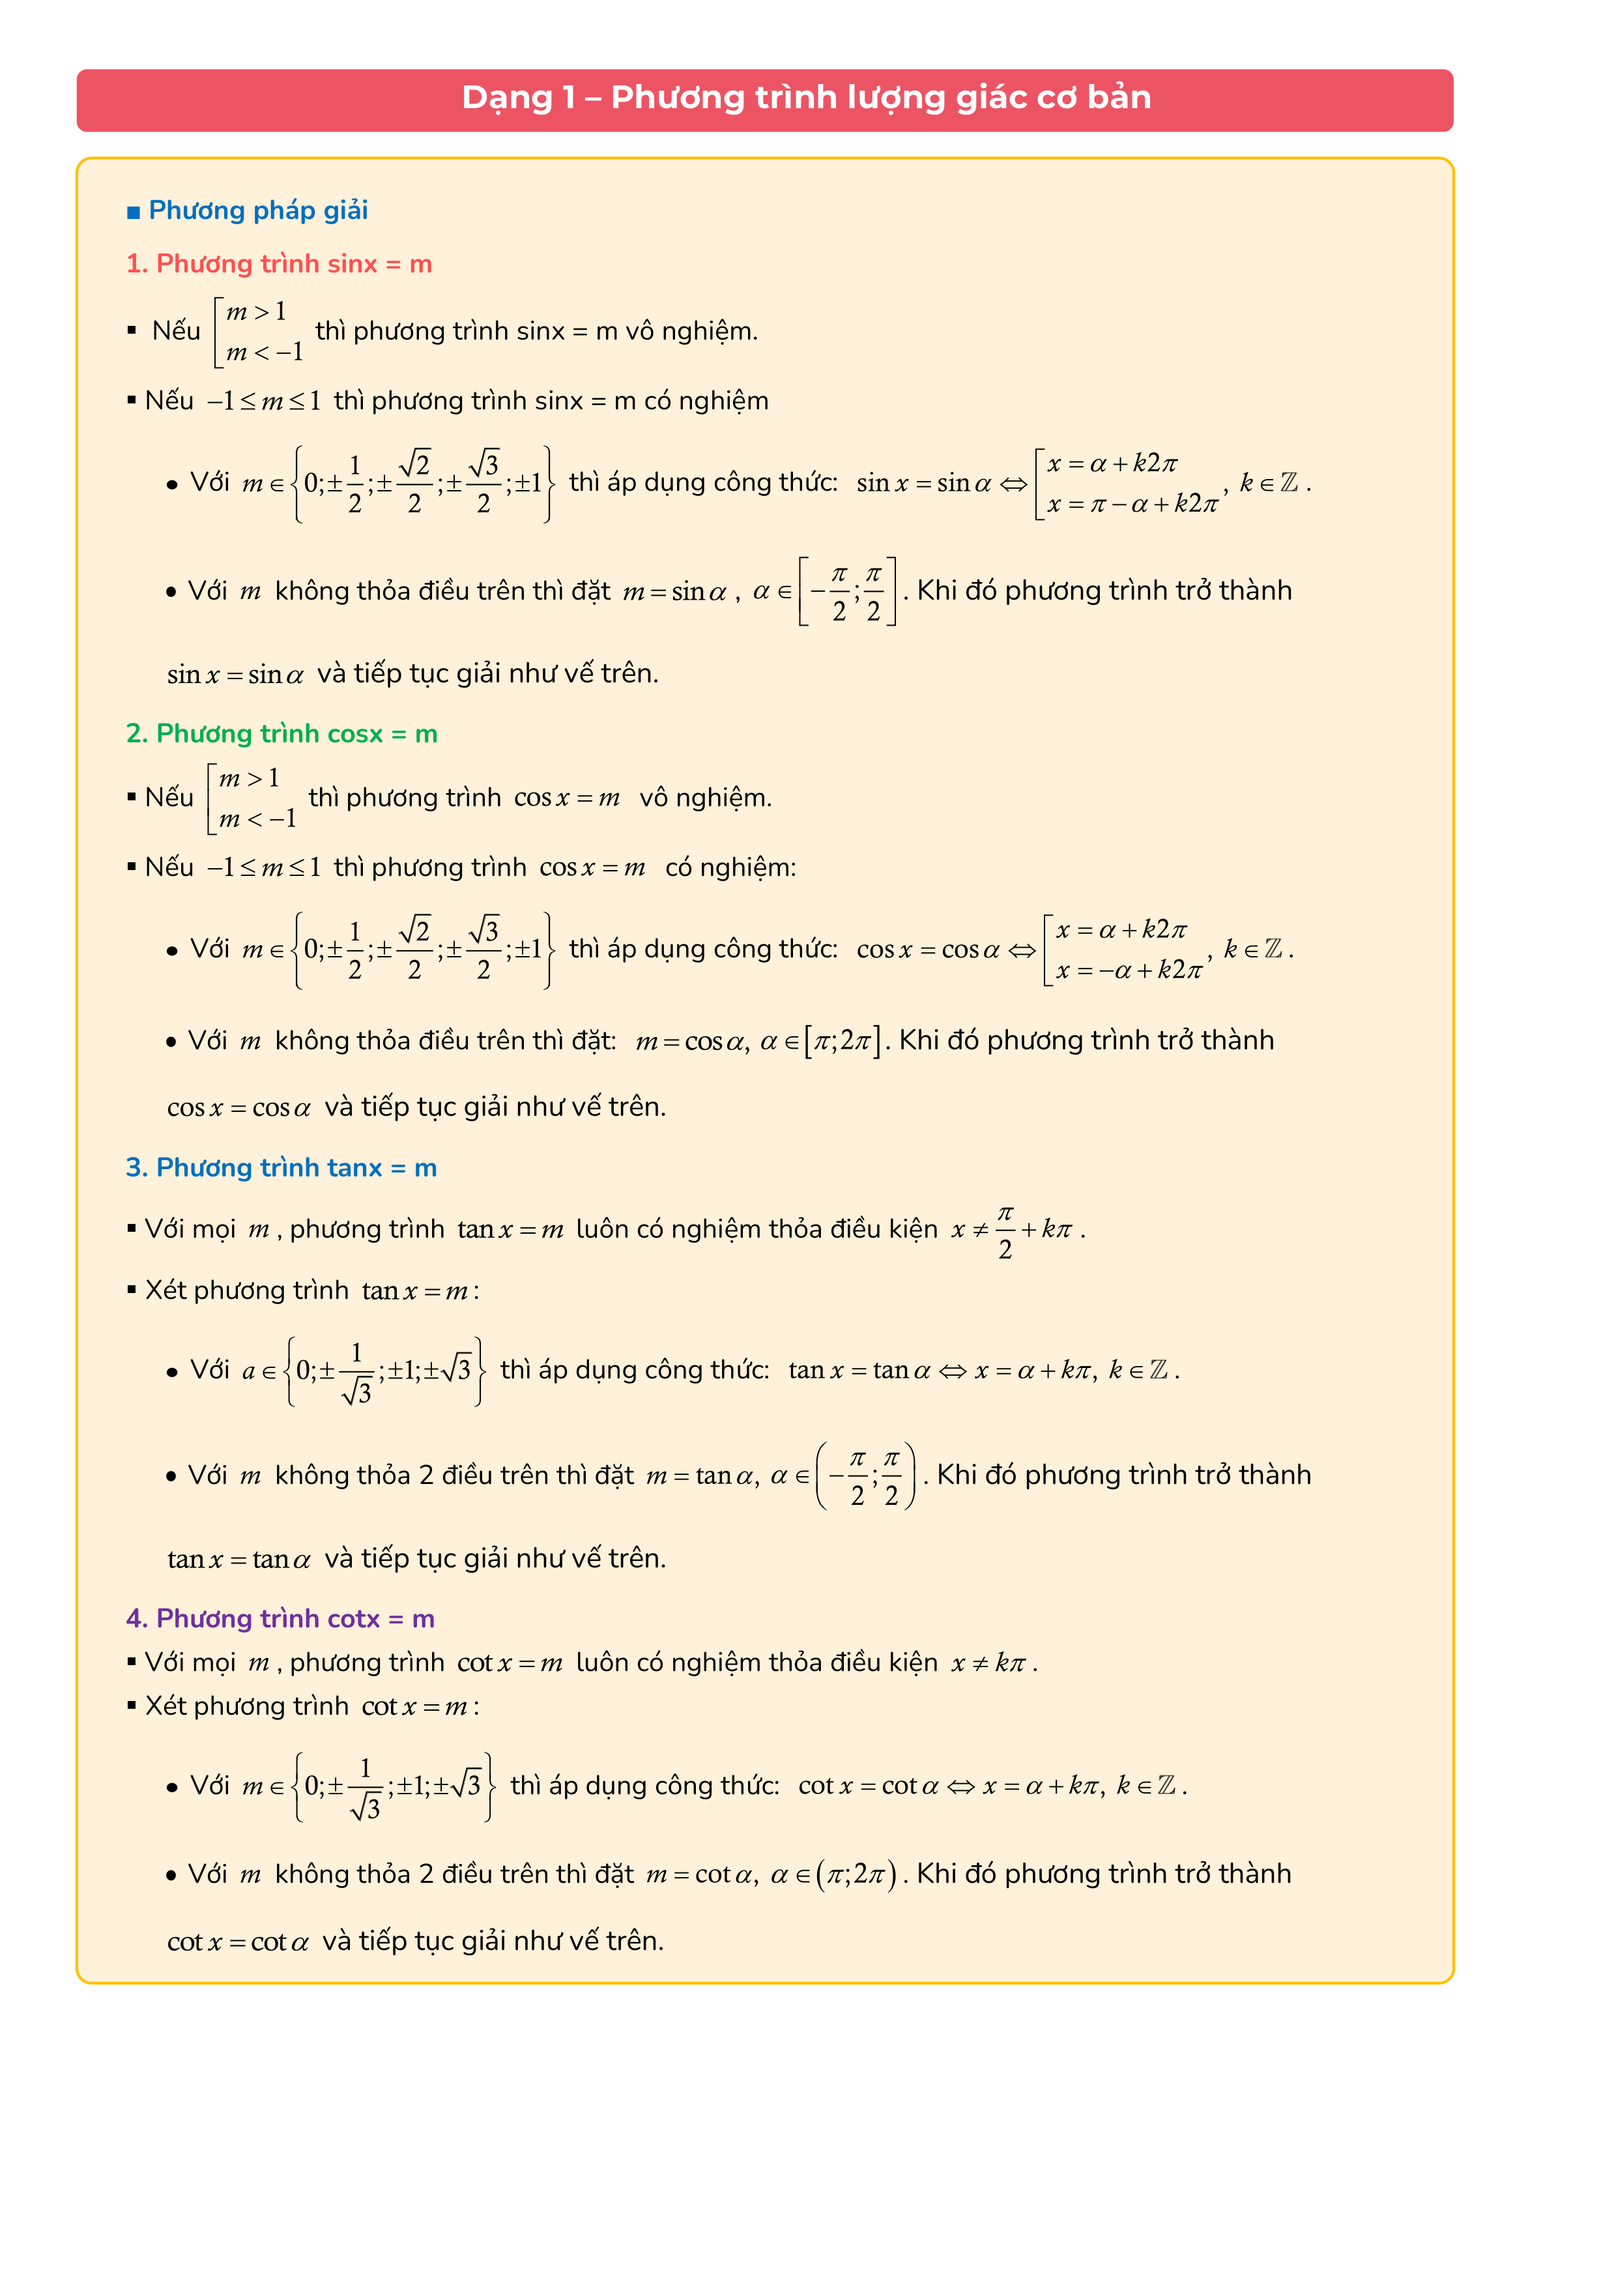
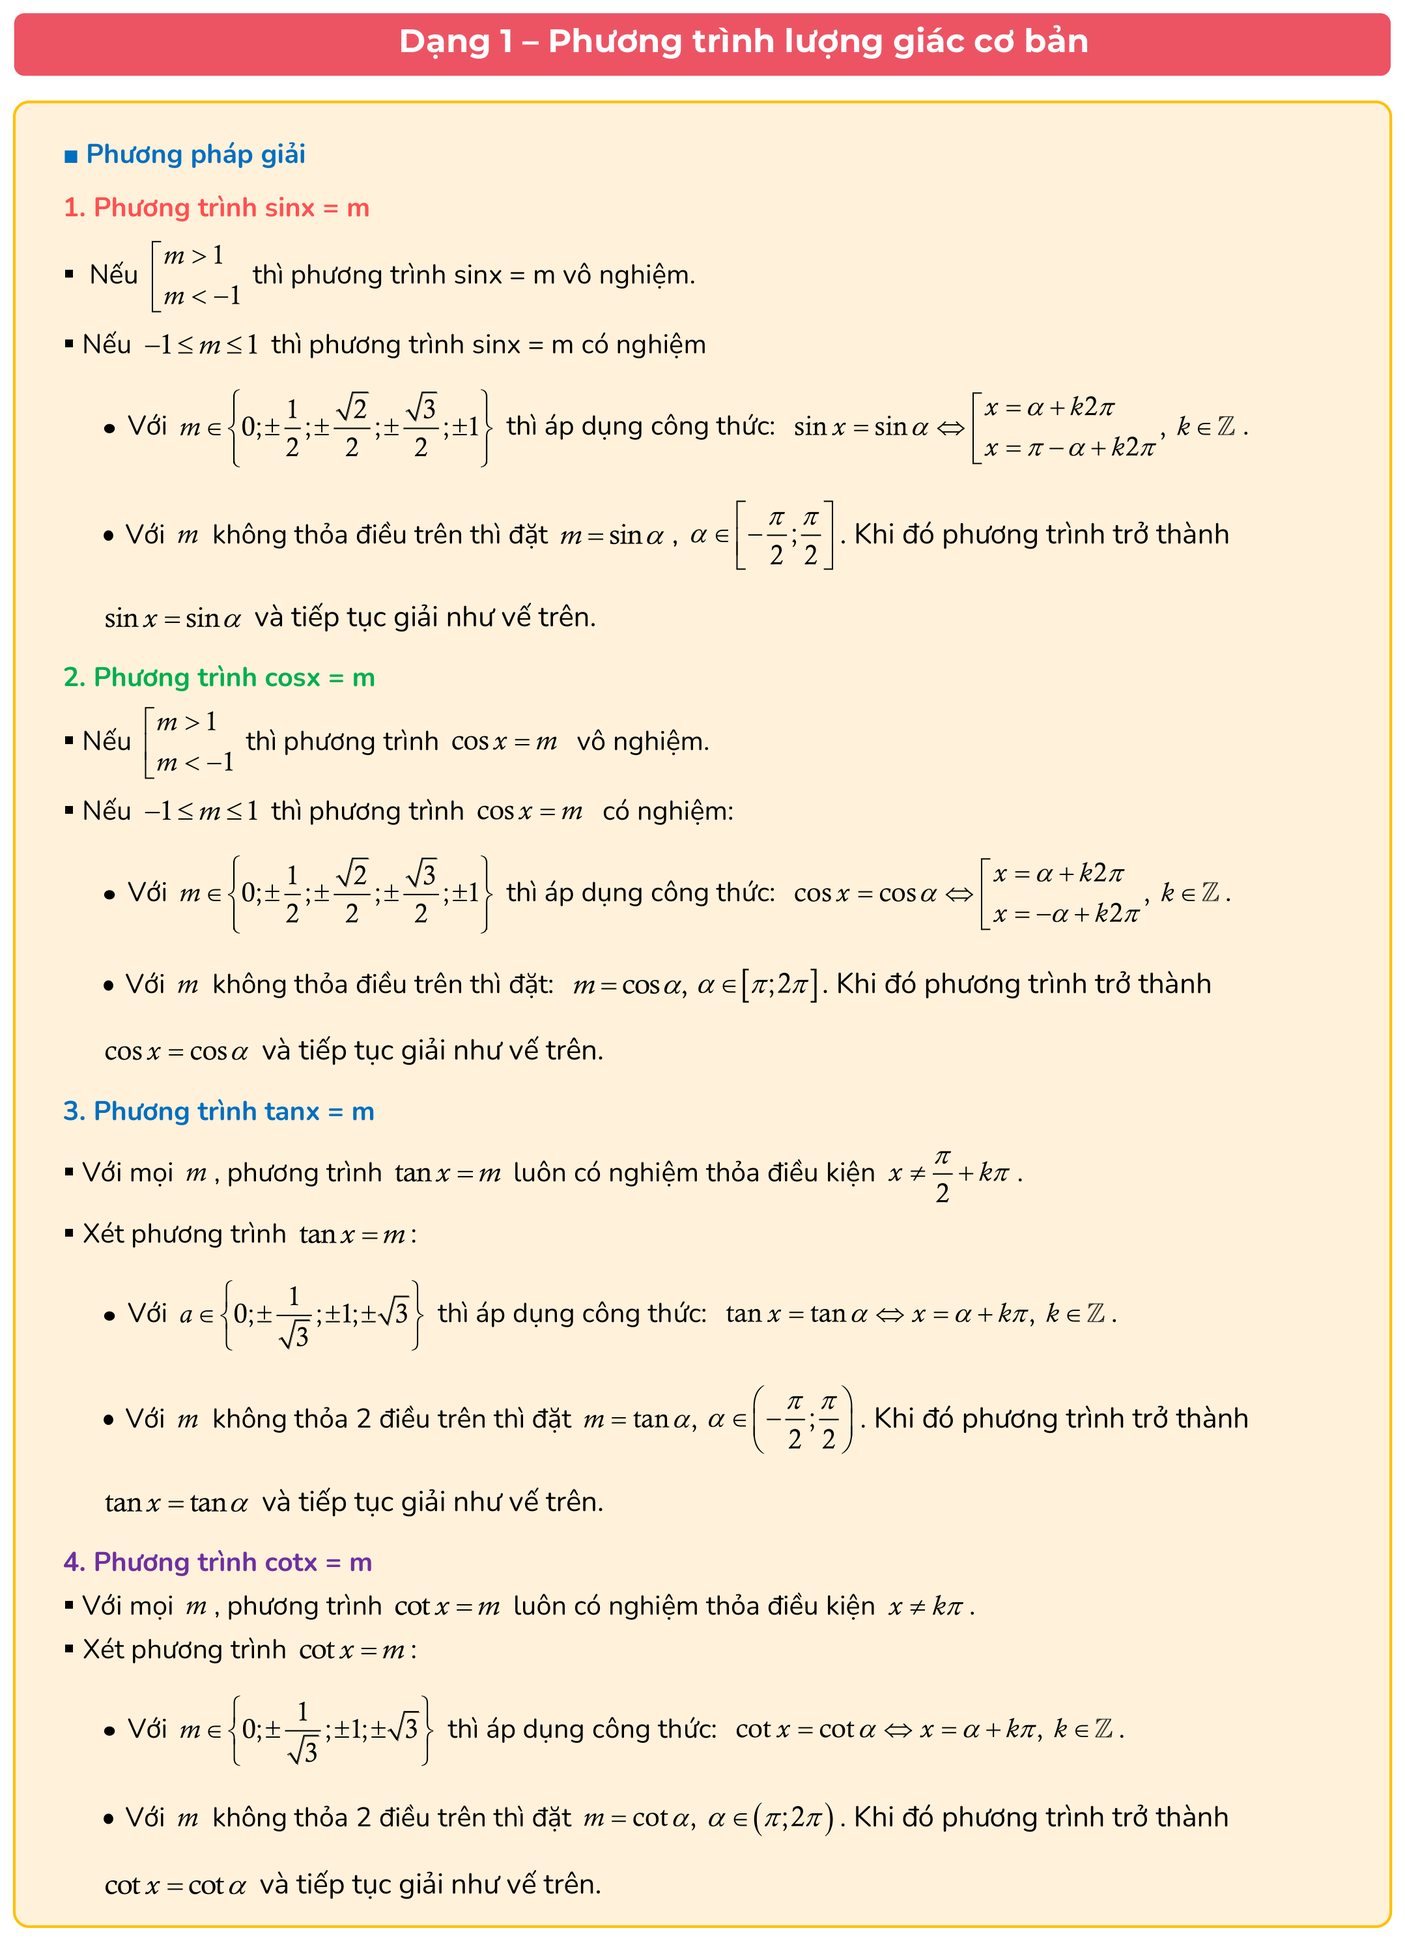
Auto-sync Chuyen De 2026-05-28 18:05

diff --git a/03_Outputs/chuyende_06.html b/03_Outputs/chuyende_06.html
@@ -2343,19 +2343,19 @@
 
         <div class="theory-text" id="theory-content" style="font-size:16px; line-height:1.8; color:#334155; padding: 10px 0;">
             <div class="img-wrap">
-                <img src="https://res.cloudinary.com/dud32vrhg/image/upload/v1779966172/chuyende_06/z6iez5zeekfz3i3vw6cq.png" alt="Lý thuyết trang 1">
+                <img src="https://res.cloudinary.com/dud32vrhg/image/upload/v1779966307/chuyende_06/gi9kmvx3obyhre2nove2.png" alt="Lý thuyết trang 1">
             </div>
             <div class="img-wrap">
-                <img src="https://res.cloudinary.com/dud32vrhg/image/upload/v1779966175/chuyende_06/pkx1xzytosm0ott1yjuq.png" alt="Lý thuyết trang 2">
+                <img src="https://res.cloudinary.com/dud32vrhg/image/upload/v1779966310/chuyende_06/xe2tvrtc2wd6uyk4o09d.png" alt="Lý thuyết trang 2">
             </div>
             <div class="img-wrap">
-                <img src="https://res.cloudinary.com/dud32vrhg/image/upload/v1779966178/chuyende_06/p2fnrcwev9zuass7niwe.png" alt="Lý thuyết trang 3">
+                <img src="https://res.cloudinary.com/dud32vrhg/image/upload/v1779966312/chuyende_06/vlp3oveb2y7zhka46xx0.png" alt="Lý thuyết trang 3">
             </div>
             <div class="img-wrap">
-                <img src="https://res.cloudinary.com/dud32vrhg/image/upload/v1779966181/chuyende_06/mycyv65caijsekws63ui.png" alt="Lý thuyết trang 4">
+                <img src="https://res.cloudinary.com/dud32vrhg/image/upload/v1779966315/chuyende_06/bpb41ficz0qtuvbfqoin.png" alt="Lý thuyết trang 4">
             </div>
             <div class="img-wrap">
-                <img src="https://res.cloudinary.com/dud32vrhg/image/upload/v1779966184/chuyende_06/hbnnzg8sg0d4h6h17lyi.png" alt="Lý thuyết trang 5">
+                <img src="https://res.cloudinary.com/dud32vrhg/image/upload/v1779966318/chuyende_06/yyowlv02kxbi2muqvh0s.png" alt="Lý thuyết trang 5">
             </div>
         </div>
     </div>

diff --git a/chuyende/chuyende_eea9549151ccbcfaf693c77e4c6eb735fd5f06607115c5c560d4f79064fe45b2.html b/chuyende/chuyende_eea9549151ccbcfaf693c77e4c6eb735fd5f06607115c5c560d4f79064fe45b2.html
@@ -2343,19 +2343,19 @@
 
         <div class="theory-text" id="theory-content" style="font-size:16px; line-height:1.8; color:#334155; padding: 10px 0;">
             <div class="img-wrap">
-                <img src="https://res.cloudinary.com/dud32vrhg/image/upload/v1779966172/chuyende_06/z6iez5zeekfz3i3vw6cq.png" alt="Lý thuyết trang 1">
+                <img src="https://res.cloudinary.com/dud32vrhg/image/upload/v1779966307/chuyende_06/gi9kmvx3obyhre2nove2.png" alt="Lý thuyết trang 1">
             </div>
             <div class="img-wrap">
-                <img src="https://res.cloudinary.com/dud32vrhg/image/upload/v1779966175/chuyende_06/pkx1xzytosm0ott1yjuq.png" alt="Lý thuyết trang 2">
+                <img src="https://res.cloudinary.com/dud32vrhg/image/upload/v1779966310/chuyende_06/xe2tvrtc2wd6uyk4o09d.png" alt="Lý thuyết trang 2">
             </div>
             <div class="img-wrap">
-                <img src="https://res.cloudinary.com/dud32vrhg/image/upload/v1779966178/chuyende_06/p2fnrcwev9zuass7niwe.png" alt="Lý thuyết trang 3">
+                <img src="https://res.cloudinary.com/dud32vrhg/image/upload/v1779966312/chuyende_06/vlp3oveb2y7zhka46xx0.png" alt="Lý thuyết trang 3">
             </div>
             <div class="img-wrap">
-                <img src="https://res.cloudinary.com/dud32vrhg/image/upload/v1779966181/chuyende_06/mycyv65caijsekws63ui.png" alt="Lý thuyết trang 4">
+                <img src="https://res.cloudinary.com/dud32vrhg/image/upload/v1779966315/chuyende_06/bpb41ficz0qtuvbfqoin.png" alt="Lý thuyết trang 4">
             </div>
             <div class="img-wrap">
-                <img src="https://res.cloudinary.com/dud32vrhg/image/upload/v1779966184/chuyende_06/hbnnzg8sg0d4h6h17lyi.png" alt="Lý thuyết trang 5">
+                <img src="https://res.cloudinary.com/dud32vrhg/image/upload/v1779966318/chuyende_06/yyowlv02kxbi2muqvh0s.png" alt="Lý thuyết trang 5">
             </div>
         </div>
     </div>

diff --git a/index.html b/index.html
@@ -1091,3 +1091,4 @@ if ('serviceWorker' in navigator) {
 
 
 
+

diff --git a/scratch/pdf_to_images_cropped.py b/scratch/pdf_to_images_cropped.py
@@ -1,0 +1,80 @@
+import os
+import sys
+
+# 1. Tự động cài đặt pymupdf và pillow nếu chưa có
+try:
+    import fitz # PyMuPDF
+    print("PyMuPDF đã được cài đặt.")
+except ImportError:
+    print("Đang cài PyMuPDF...")
+    import subprocess
+    subprocess.check_call([sys.executable, "-m", "pip", "install", "pymupdf"])
+    import fitz
+
+try:
+    from PIL import Image, ImageChops
+    print("Pillow đã được cài đặt.")
+except ImportError:
+    print("Đang cài Pillow...")
+    import subprocess
+    subprocess.check_call([sys.executable, "-m", "pip", "install", "pillow"])
+    from PIL import Image, ImageChops
+
+# 2. Hàm tự động cắt lề trắng (Trim white borders)
+def trim_white_borders(image_path, tolerance=240):
+    img = Image.open(image_path).convert("RGB")
+    
+    # Tạo ảnh nền trắng tinh cùng kích thước
+    bg = Image.new(img.mode, img.size, (255, 255, 255))
+    
+    # Tính sự khác biệt giữa ảnh gốc và nền trắng
+    diff = ImageChops.difference(img, bg)
+    
+    # Tăng cường độ tương phản của phần khác biệt để lọc các pixel gần trắng
+    diff = ImageChops.add(diff, diff, 2.0, -100)
+    
+    # Lấy bounding box của vùng chứa nội dung (non-white)
+    bbox = diff.getbbox()
+    
+    if bbox:
+        # Thêm một chút padding (khoảng 20 pixel) để ảnh không bị sát viền nội dung quá
+        left, top, right, bottom = bbox
+        left = max(0, left - 20)
+        top = max(0, top - 20)
+        right = min(img.size[0], right + 20)
+        bottom = min(img.size[1], bottom + 20)
+        
+        cropped_img = img.crop((left, top, right, bottom))
+        cropped_img.save(image_path, "PNG")
+        print(f"  ✂ Đã cắt lề trắng thành công cho: {os.path.basename(image_path)}")
+    else:
+        print(f"  ⚠ Không phát hiện nội dung khác màu trắng để cắt: {os.path.basename(image_path)}")
+
+# 3. Định nghĩa đường dẫn
+pdf_path = r"c:\Users\huyds\OneDrive\2. PARA\1 - Projects\CaChep_Ecosystem\02_Distribution\List_Chuyende_Web\01_Inputs\chuyende_06\pic\lythuyetcd6.pdf"
+output_dir = r"c:\Users\huyds\OneDrive\2. PARA\1 - Projects\CaChep_Ecosystem\02_Distribution\List_Chuyende_Web\01_Inputs\chuyende_06\pic"
+
+if not os.path.exists(pdf_path):
+    print(f"❌ Không tìm thấy file PDF tại: {pdf_path}")
+    sys.exit(1)
+
+# 4. Tách các trang PDF thành ảnh PNG nét cao
+doc = fitz.open(pdf_path)
+print(f"📄 Tiến hành xử lý file PDF ({len(doc)} trang)...")
+
+for page_num in range(len(doc)):
+    page = doc.load_page(page_num)
+    zoom = 4.16 # ~300 DPI
+    mat = fitz.Matrix(zoom, zoom)
+    pix = page.get_pixmap(matrix=mat, alpha=False)
+    
+    output_filename = f"LT_Page_{page_num + 1}.png"
+    output_filepath = os.path.join(output_dir, output_filename)
+    
+    # Lưu ảnh thô tạm thời
+    pix.save(output_filepath)
+    
+    # Tiến hành cắt lề trắng
+    trim_white_borders(output_filepath)
+
+print("\n🎉 HOÀN THÀNH! Toàn bộ 5 trang lý thuyết đã được tách và tự động cắt sạch lề trắng dư thừa.")
